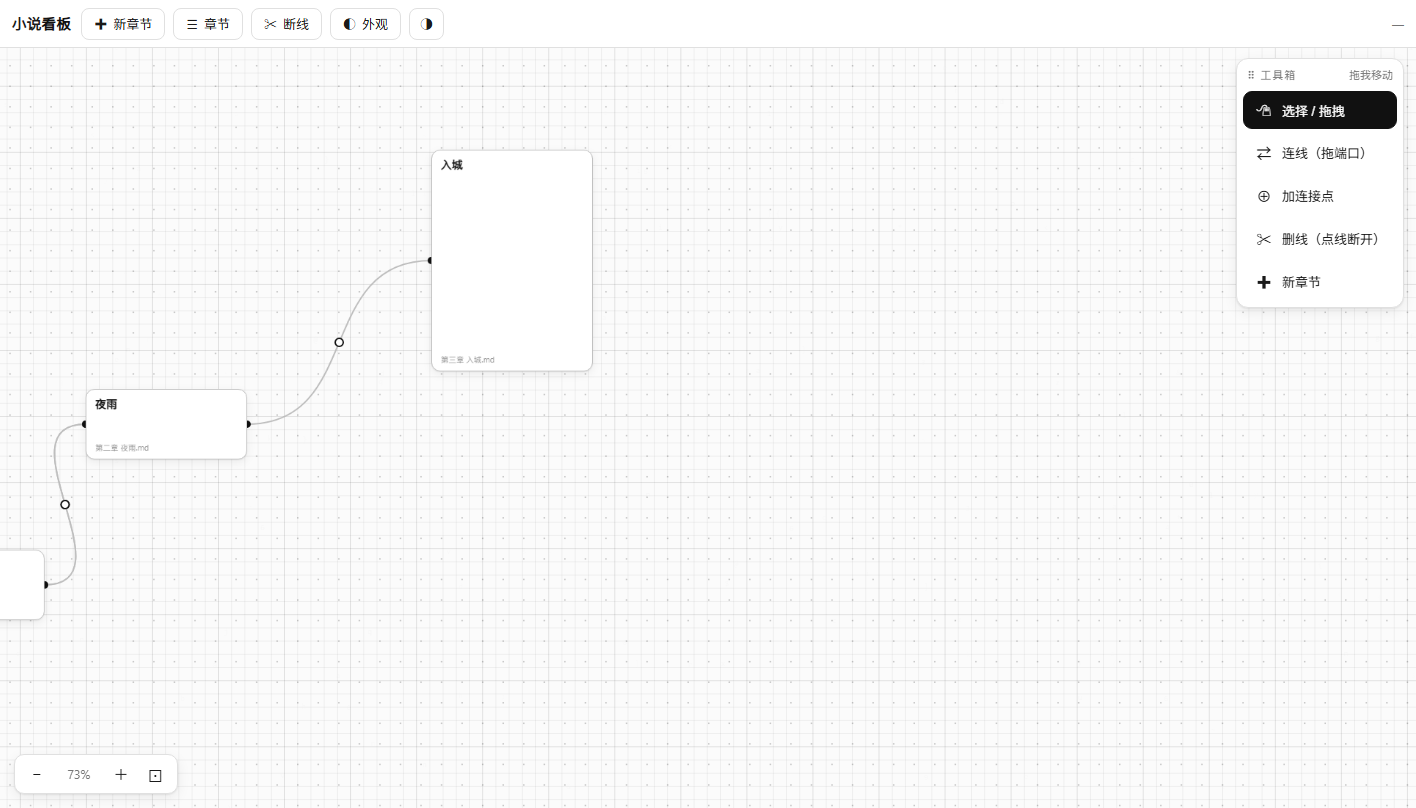
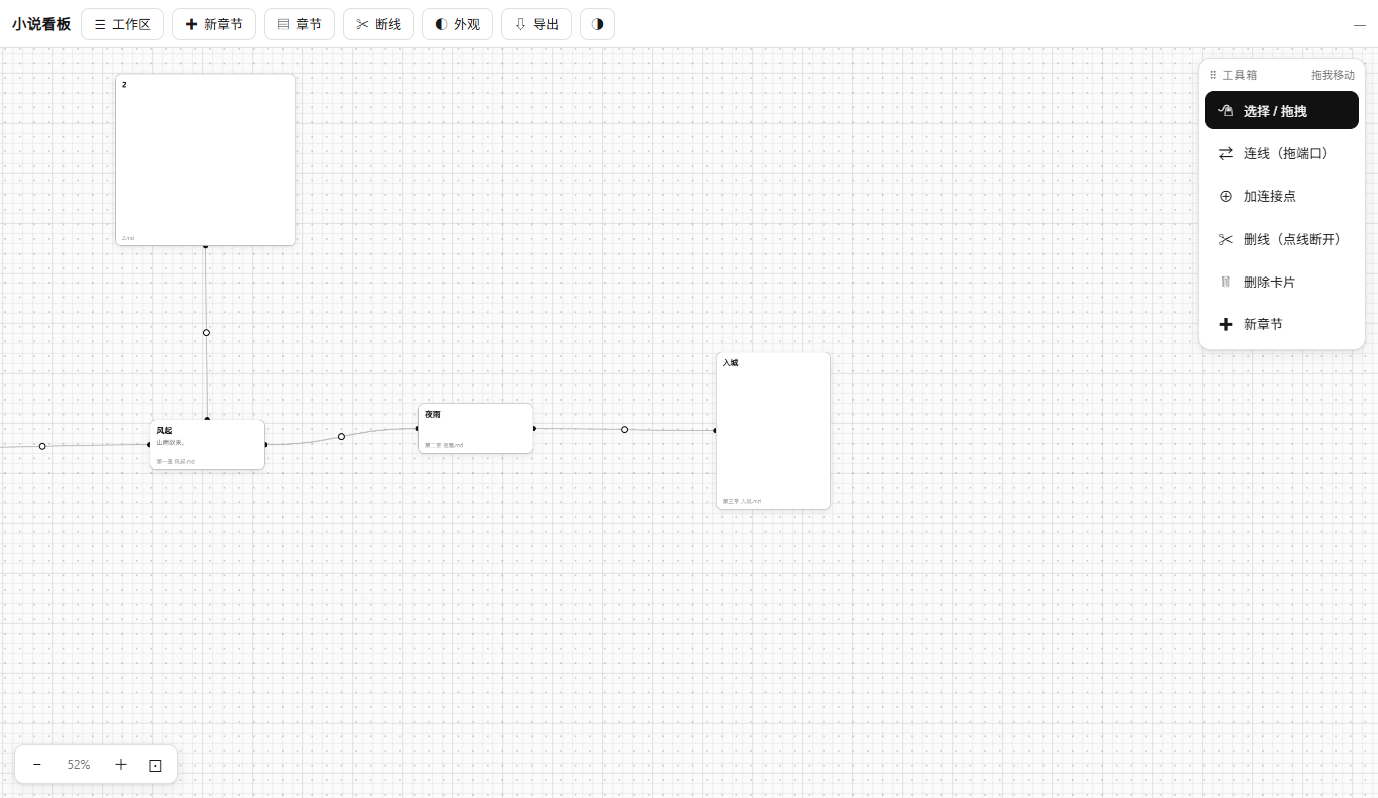
docs: README 更新为当前功能（工作区/删卡/Token/导出/在线版），替换截图为新版界面

diff --git a/README.md b/README.md
@@ -1,41 +1,46 @@
 # 小说看板 · Novel Board
 
-一个给长篇小说作者用的**结构看板 + 写作工作台**：横向时间树管理章节关系，点卡片写正文，右侧 AI 参谋陪聊，背景是缓慢漂移的字符氛围。提供浏览器版与 Windows 桌面版。
+一个给长篇小说作者用的**结构看板 + 写作工作台**：横向时间树管理章节关系，点卡片写正文，右侧 AI 参谋陪聊，一键把连线流导出成整本书。提供**在线网页版**（免安装）、本地浏览器版与 Windows 桌面版。
 
 ![看板](docs/screenshots/board-light.png)
 
 ![正文与 AI 分栏](docs/screenshots/editor-ai-split.png)
 
+## 在线使用（无需安装）
+
+👉 **https://lovemovexurong.github.io/novel-board/**
+
+纯静态网页版：数据（章节、看板、AI 配置、会话）全部保存在你自己的浏览器 localStorage，不经过任何服务器；AI 调用由浏览器直连你填的 OpenAI 兼容端点。换设备数据不跟随，适合轻量试用的作者。
+
 ## 功能
 
+- **多工作区**：每本小说一个独立看板，支持子工作区，左侧树切换
 - **横向时间树**：卡片自由拖拽/缩放，四边端口连线（可任意增删端口、拖拽调位置），连线强锚定卡片，拖动不跑偏
-- **悬浮工具箱**：选择 / 连线 / 加连接点 / 删线 / 新章节
+- **悬浮工具箱**：选择 / 连线 / 加连接点 / 删线 / **删除卡片** / 新章节
 - **写作抽屉**：正文与 AI 参谋**左右分栏**同时可见，Ctrl+S 写回原 `.md` 文件
-- **AI 参谋**：OpenAI 兼容端点（Base URL / Key / 模型），每章独立会话 + 跨章共享摘要自动维护
-- **视觉**：纯黑白灰、无渐变；细方格背景 + 漂移字符；深浅双主题；点阵/浓度/节点尺寸可调
+- **AI 参谋**：只需填一个 API Key 点「获取模型」即可用（OpenAI 兼容端点），每章独立会话 + 跨章共享摘要自动维护
+- **Token 用量统计**：本章 / 今日 / 累计 tokens 实时显示
+- **整本导出**：按连线顺序（可拖拽调整）把所有章节正文合并导出为 `.txt`，写完即出书稿
+- **视觉**：纯黑白灰、无渐变；深浅双主题；点阵/浓度/节点尺寸可调
 - **数据安全**：状态原子写 + 自动备份（保留 60 份）+ hash 冲突检测
 - **桌面端**：Electron，单实例、托盘、窗口记忆、书稿目录可选、API Key 走系统加密存储
 
-## 目录
+![工作区](docs/screenshots/workspace.png)
 
-```
-board/        浏览器版（零依赖 Node 服务 + 单文件前端）
-desktop/      Windows 桌面版（Electron + electron-builder）
-preview/      实测截图
-```
+![整本导出](docs/screenshots/export.png)
 
 ## 下载
 
-Windows 安装包见 [Releases](https://github.com/lovemovexurong/novel-board/releases)（`小说看板-<版本>-x64.exe`，per-user 安装，免管理员）。
+Windows 桌面版安装包见 [Releases](https://github.com/lovemovexurong/novel-board/releases)（`小说看板-<版本>-x64.exe`，per-user 安装，免管理员）。
 
-## 浏览器版
+## 本地浏览器版
 
 ```bash
 cd board
 node server.mjs          # http://127.0.0.1:4317/
 ```
 
-章节 `.md` 放在 `board/chapters/`，看板状态存 `board/.board-state.json`。
+章节 `.md` 放在 `board/chapters/`（或自选工作区目录），看板状态存 `board/.board-state.json`。
 
 ## 桌面版（Windows 11）
 
@@ -60,12 +65,15 @@ npm run build            # 产出 dist/小说看板-<ver>-x64.exe（NSIS，per-u
 | 端口挪位置 | Alt + 拖动端口 |
 | 删端口 | 右键端口（挂在上面的线一并清理） |
 | 删线 | 工具箱「删线」→ 点线 |
+| 删除卡片 | 工具箱「删除卡片」→ 点卡片（可选是否删章节文件） |
 | 保存正文 | Ctrl+S |
+| 导出整本 | 顶栏「导出」→ 拖拽排序 → 导出 txt |
 | 缩放/平移 | 滚轮 / 中键拖动 |
 
 ## 技术
 
 - 前端：原生 JS + Canvas（ASCII 背景），单文件 `index.html`
+- 网页版：纯静态部署（GitHub Pages），localStorage 数据层，AI 前端直连
 - 服务：Node 零依赖 HTTP，状态/文件/AI 代理，只绑 `127.0.0.1`
 - 桌面：Electron 33，主进程内嵌服务（随机端口），`safeStorage` 加密密钥
 
